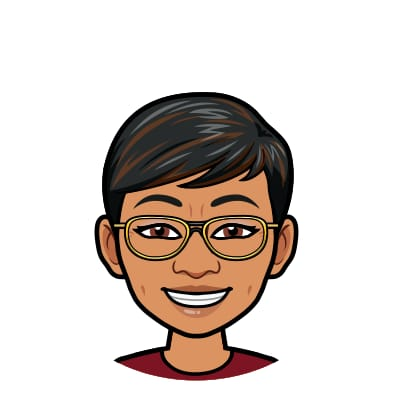
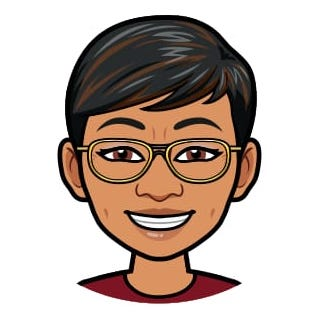
anim and navbar

diff --git a/src/pages/index.js b/src/pages/index.js
@@ -31,8 +31,8 @@ class RootIndex extends React.Component {
               })}
             </ul>
             <div className='about'>
-              {/* <h2 className='section-headline'>A propos de ce blog</h2> */}
-              <img src={Avatar} alt='avatar' style={{ maxWidth: '30%' }}/>
+              <h2 className='section-headline'>A propos de ce blog</h2>
+              <img src={Avatar} alt='avatar' style={{ maxWidth: '40%', float: 'left' }}/>
               <div className='about_text'>
                 <p>Alors l’idée m’est venue de vous proposer ce blog, et d’en être la modératrice.
                 Ceci est un blog pour réfléchir ensemble et soyons clair, il n’a pas pour but de supplanter les organisations professionnelles. Je dirai qu’il est un complément dont je vous détaillerai les pourquoi et comment dans le prochain article.
@@ -47,6 +47,7 @@ class RootIndex extends React.Component {
                 Merci de me lire et à bientôt pour partager respectueusement ensemble
                 </p>
               </div>
+              
             </div>
             
           </div>

diff --git a/src/components/hero.js b/src/components/hero.js
@@ -13,12 +13,12 @@ export default ({ data }) => (
     <Row>
 
       <Col sm={12} md={6}>
-       <img src={ImgCouple} style={{ width: "100%", backgroundColor: "white" }}/>       
+       <img src={ImgCouple} style={{ width: "100%", backgroundColor: "white" }} data-sal="slide-right" data-sal-delay="400" data-sal-easing="ease-out-sine"/>       
       </Col>
 
       <Col sm={12} md={6}>
-        <div className={styles.heroDetails}>
-          <h3 className={styles.heroHeadline}>Carpe Consilium</h3>
+        <div className={styles.heroDetails} data-sal="slide-left" data-sal-delay="400" data-sal-easing="ease-out-sine">
+          {/* <h3 className={styles.heroHeadline}>Carpe Consilium</h3> */}
           <p className={styles.heroTitle}>Ou comment mettre à profit le Conseil Conjugal et Familial.</p>
           <p>Imaginons le potentiel des bienfaits du Conseil Conjugal et Familial si on en comprenait davantage son utilité et son sens, s’il était encore plus valorisé. Si on profitait de son « tenir conseil »…</p>
         </div>

diff --git a/gatsby-config.js b/gatsby-config.js
@@ -48,5 +48,21 @@ module.exports = {
       resolve: "gatsby-source-contentful",
       options: contentfulConfig,
     },
+    {
+      resolve: `gatsby-plugin-scroll-reveal`,
+      options: {
+          threshold: 1, // Percentage of an element's area that needs to be visible to launch animation
+          once: true, // Defines if animation needs to be launched once
+          disable: false, // Flag for disabling animations
+          
+          // Advanced Options
+          selector: '[data-sal]', // Selector of the elements to be animated
+          animateClassName: 'sal-animate', // Class name which triggers animation
+          disabledClassName: 'sal-disabled', // Class name which defines the disabled state
+          rootMargin: '0% 50%', // Corresponds to root's bounding box margin
+          enterEventName: 'sal:in', // Enter event name
+          exitEventName: 'sal:out', // Exit event name
+      }
+    }
   ],
 };

diff --git a/src/components/base.css b/src/components/base.css
@@ -80,15 +80,16 @@ a {
     margin-bottom: 30px;
   }
 
-  .about {
+  /* .about {
     display: flex;
     flex-direction: column;
     align-items: center;
-  }
+  } */
 
   .about_text {
-    text-align: center;
+    /* text-align: center; */
     font-size: 1.5em;
+    display: inline;
   }
 
   .navbar-collapse {
@@ -98,4 +99,14 @@ a {
   .navbar-light .navbar-nav .nav-link {
     color: black;
     font-size: 1.2em;
+  }
+
+  @media(max-width: 767px) {
+    .navbar-light .navbar-brand {
+      width: 50%;
+    }
+    .navbar-brand img {
+      height: 40px;
+      width: 100%;
+    }
   }

diff --git a/src/pages/blog.js b/src/pages/blog.js
@@ -15,7 +15,7 @@ class BlogIndex extends React.Component {
       <Layout location={this.props.location}>
         <div style={{ background: '#fff' }}>
           <Helmet title={siteTitle} />
-          <div className={styles.hero}>Blog</div>
+          {/* <div className={styles.hero}>Blog</div> */}
           <div className="wrapper">
             <h2 className="section-headline">Articles récents</h2>
             <ul className="article-list">

diff --git a/src/components/hero.module.css b/src/components/hero.module.css
@@ -16,8 +16,8 @@
 
 .heroDetails {
   font-size: 14px;
-  padding: 0 4.5em;
-  margin-left: 1em;
+  padding: 0 2.5em;
+  /* margin-left: 1em; */
 }
 
 @media(min-width: 600px) {
@@ -40,4 +40,12 @@
   margin: 0;
   font-size: 1.125em;
   font-weight: bold;
+}
+
+
+@media(max-width: 767px) {
+  .heroDetails {
+    padding: 0;
+    text-align: center;
+  }
 }

diff --git a/src/components/navigation.js b/src/components/navigation.js
@@ -19,7 +19,7 @@ export default () => (
   //   </ul>
   // </nav>
 
-  <Navbar bg="white" expand="lg" className=''>
+  <Navbar bg="white" expand="lg" className='justify-content-between'>
     <Navbar.Brand href="/" className=''>
       <img
           alt=""
